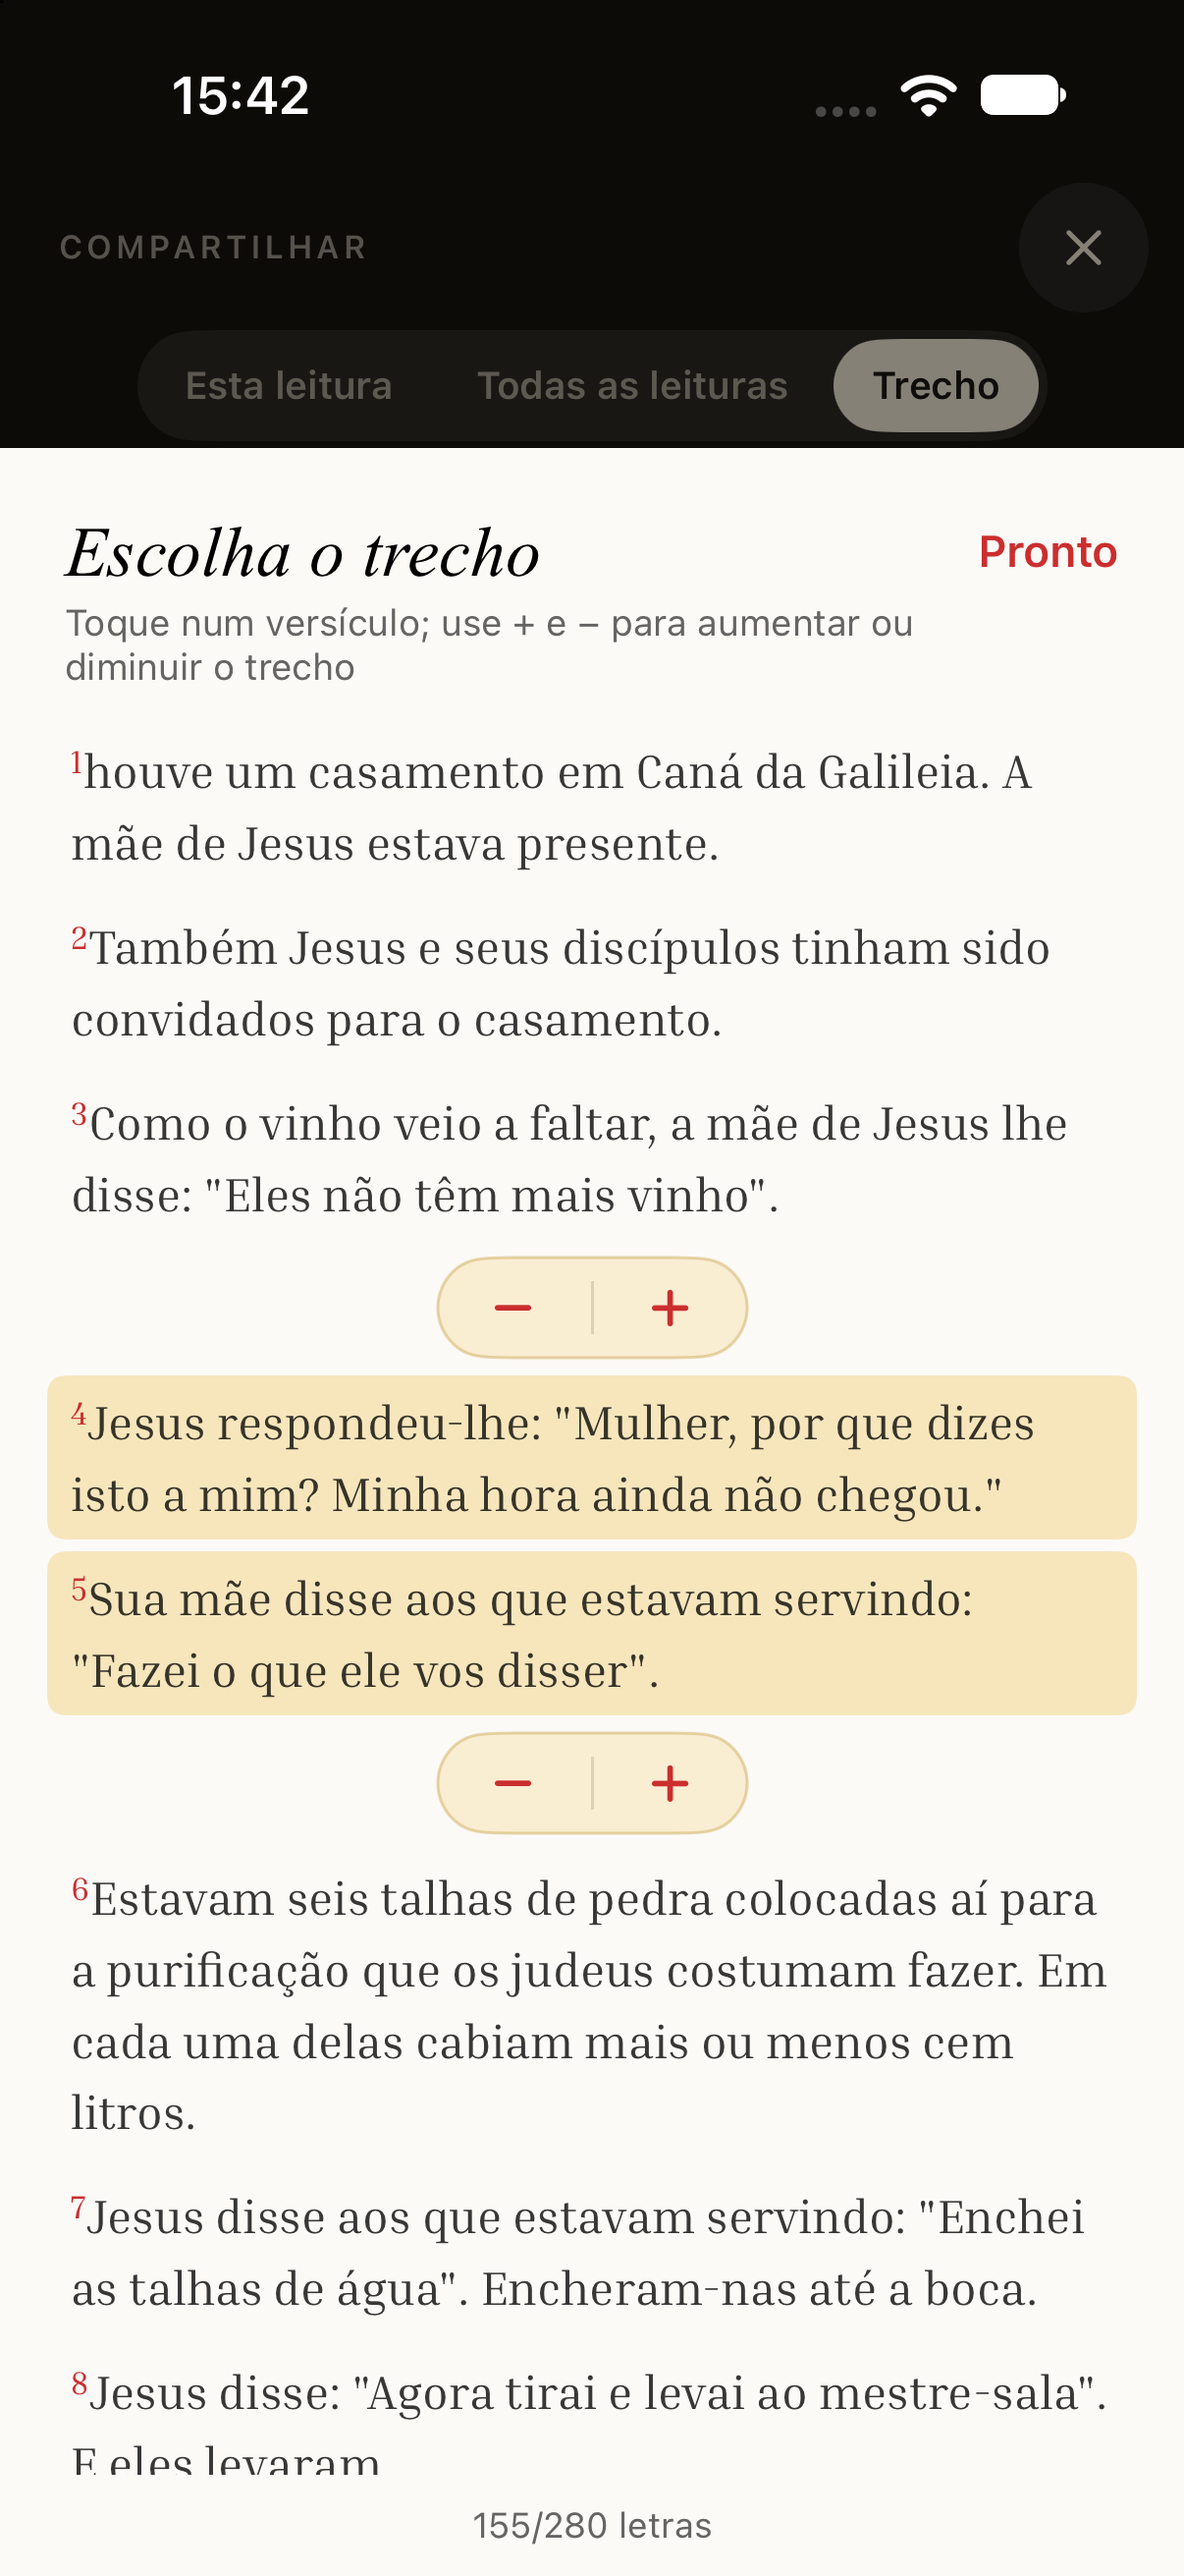
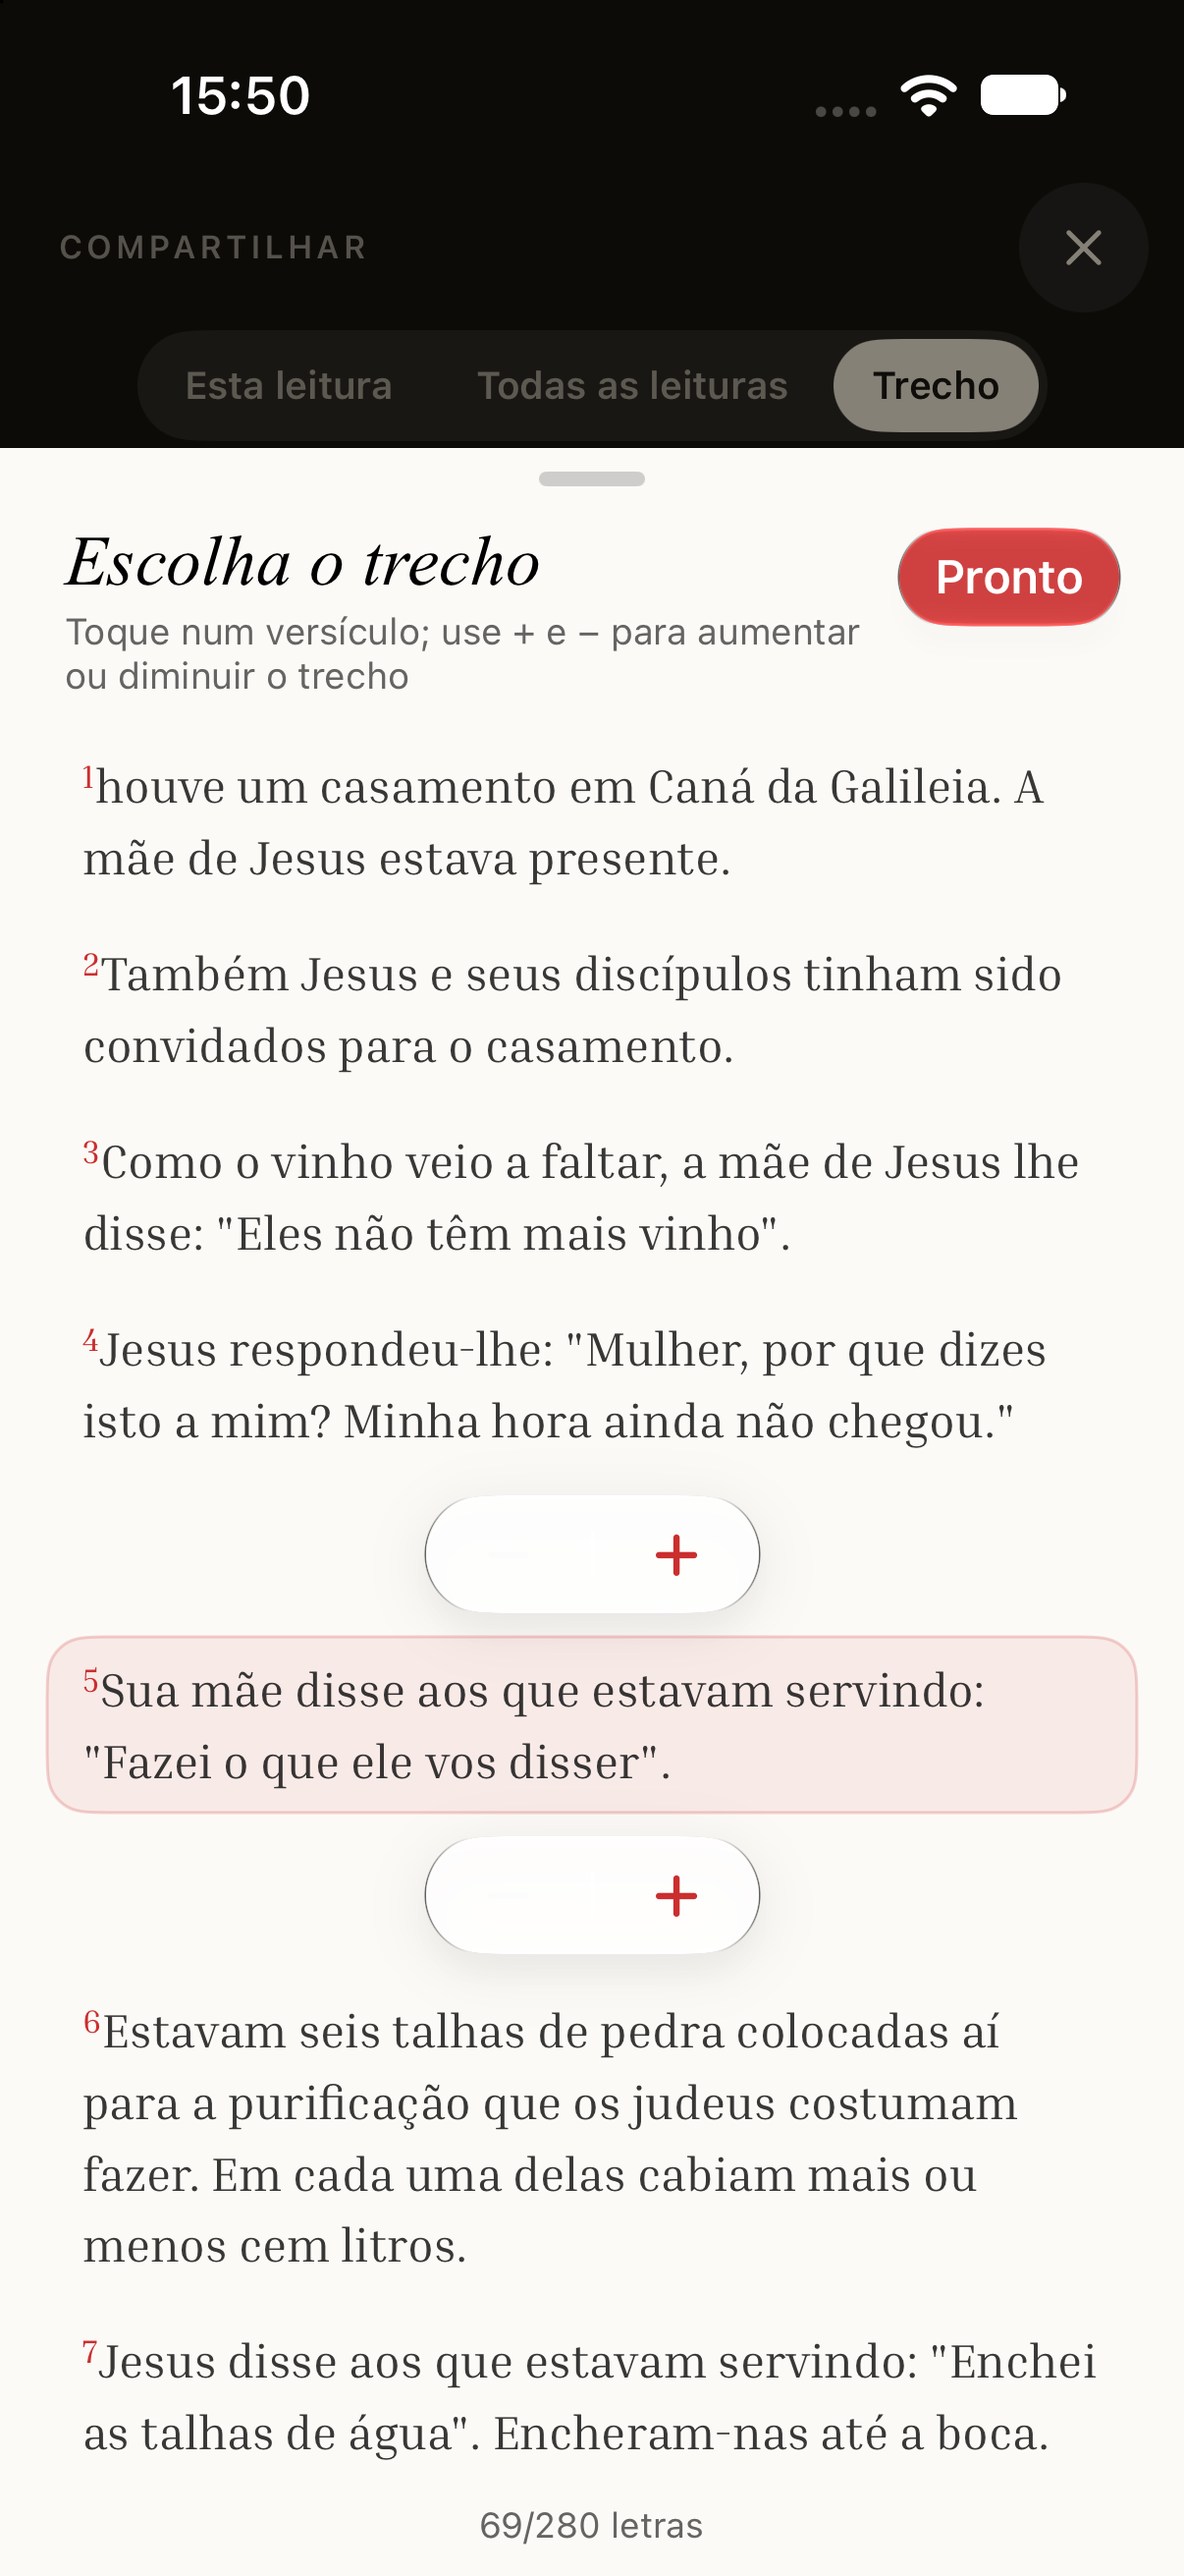
style(ios): seletor de trecho no estilo do iOS (− | + em vidro, destaque suave, Pronto em vidro)

diff --git a/ios/LiturgiaDiaria/Compartilhar.swift b/ios/LiturgiaDiaria/Compartilhar.swift
@@ -99,7 +99,7 @@ struct CompartilharView: View {
                                    pronto: { withAnimation(.easeOut(duration: 0.25)) { escolhendo = false } })
                         .frame(maxHeight: .infinity, alignment: .bottom)
                         .padding(.top, 90)
-                        .clipShape(UnevenRoundedRectangle(topLeadingRadius: 22, topTrailingRadius: 22))
+                        .clipShape(UnevenRoundedRectangle(topLeadingRadius: 34, topTrailingRadius: 34, style: .continuous))
                         .ignoresSafeArea(edges: .bottom)
                         .transition(.move(edge: .bottom))
                 }
@@ -432,6 +432,8 @@ struct EscolherVersos: View {
 
     var body: some View {
         VStack(alignment: .leading, spacing: 0) {
+            Capsule().fill(Color.black.opacity(0.18)).frame(width: 36, height: 5)
+                .frame(maxWidth: .infinity).padding(.top, 8)
             HStack(alignment: .top) {
                 VStack(alignment: .leading, spacing: 3) {
                     Text("Escolha o trecho").font(Estilo.titulo(24)).foregroundStyle(Estilo.tinta)
@@ -439,10 +441,9 @@ struct EscolherVersos: View {
                         .font(Estilo.sans(12.5)).foregroundStyle(Estilo.suave)
                 }
                 Spacer()
-                Button("Pronto") { pronto() }.font(Estilo.sans(15, .semibold)).foregroundStyle(Estilo.vermelho)
-                    .padding(.top, 4)
+                botaoPronto.padding(.top, 2)
             }
-            .padding(.horizontal, 22).padding(.top, 22).padding(.bottom, 12)
+            .padding(.horizontal, 22).padding(.top, 12).padding(.bottom, 12)
             ScrollViewReader { rolar in
                 ScrollView {
                     VStack(alignment: .leading, spacing: 4) {
@@ -479,46 +480,68 @@ struct EscolherVersos: View {
                 .lineSpacing(5)
                 .frame(maxWidth: .infinity, alignment: .leading)
                 .contentShape(Rectangle())
-                .onTapGesture { aplicar(u.id, u.id); UISelectionFeedbackGenerator().selectionChanged() }
+                .onTapGesture { withAnimation(.snappy(duration: 0.28)) { aplicar(u.id, u.id) }; UISelectionFeedbackGenerator().selectionChanged() }
         }
-        .padding(.horizontal, 8).padding(.vertical, 6)
-        .background(RoundedRectangle(cornerRadius: 6).fill(marcado ? Color(hex: 0xf3d58c, alpha: 0.55) : .clear))
+        .padding(.horizontal, 12).padding(.vertical, 8)
+        .background(RoundedRectangle(cornerRadius: 14, style: .continuous).fill(marcado ? Estilo.vermelho.opacity(0.08) : .clear))
+        .overlay(RoundedRectangle(cornerRadius: 14, style: .continuous).stroke(marcado ? Estilo.vermelho.opacity(0.22) : .clear, lineWidth: 1))
         .animation(.easeOut(duration: 0.15), value: marcado)
         .background(GeometryReader { g in Color.clear.preference(key: QuadrosVersos.self, value: [u.id: g.frame(in: .named("versos"))]) })
         .accessibilityAddTraits(.isButton)
         .accessibilityAddTraits(marcado ? .isSelected : [])
     }
 
+    @ViewBuilder private var botaoPronto: some View {
+        if #available(iOS 26, *) {
+            Button("Pronto") { pronto() }.font(.system(size: 16, weight: .semibold))
+                .buttonStyle(.glassProminent).tint(Estilo.vermelho)
+        } else {
+            Button("Pronto") { pronto() }.font(.system(size: 16, weight: .semibold))
+                .buttonStyle(.borderedProminent).buttonBorderShape(.capsule).tint(Estilo.vermelho)
+        }
+    }
+
     private var podeAjustar: Bool { sel.map { versos.unidades[$0.0].n != "R." } ?? false }
 
-    /// Um par "− / +" em cada ponta do trecho: em cima mexe no começo, embaixo mexe no fim.
+    /// Um par "− / +" em cada ponta do trecho, em vidro como os controles do iOS: em cima mexe no
+    /// começo, embaixo mexe no fim.
     private func pontas(acima: Bool) -> some View {
         let (a, b) = (min(sel!.0, sel!.1), max(sel!.0, sel!.1))
         let primeiro = versos.unidades.first?.n == "R." ? 1 : 0
         let podeMais = acima ? a > primeiro : b < versos.unidades.count - 1
         let podeMenos = a != b
-        return HStack(spacing: 0) {
+        let par = HStack(spacing: 0) {
             botaoPonta("minus", ativo: podeMenos, rotulo: acima ? "Tirar o primeiro versículo" : "Tirar o último versículo") {
                 acima ? ajustar(a + 1, b) : ajustar(a, b - 1)
             }
-            Rectangle().fill(Estilo.tinta.opacity(0.12)).frame(width: 1, height: 18)
+            Capsule().fill(.secondary.opacity(0.35)).frame(width: 1, height: 16)
             botaoPonta("plus", ativo: podeMais, rotulo: acima ? "Acrescentar o versículo anterior" : "Acrescentar o versículo seguinte") {
                 acima ? ajustar(a - 1, b) : ajustar(a, b + 1)
             }
         }
-        .background(Capsule().fill(Color(hex: 0xf3d58c, alpha: 0.35)))
-        .overlay(Capsule().stroke(Color(hex: 0xc9a54a, alpha: 0.45), lineWidth: 1))
+        return Group {
+            if #available(iOS 26, *) {
+                par.glassEffect(.regular.tint(Color.white.opacity(0.75)).interactive(), in: .capsule)
+                    .shadow(color: .black.opacity(0.08), radius: 10, y: 4)
+            } else {
+                par.background(.regularMaterial, in: Capsule())
+                    .shadow(color: .black.opacity(0.10), radius: 8, y: 3)
+            }
+        }
         .frame(maxWidth: .infinity)
-        .padding(.vertical, 2)
+        .padding(.vertical, 4)
+        .transition(.scale(scale: 0.85).combined(with: .opacity))
     }
 
     private func botaoPonta(_ icone: String, ativo: Bool, rotulo: String, acao: @escaping () -> Void) -> some View {
-        Button(action: acao) {
-            Image(systemName: icone).font(.system(size: 15, weight: .semibold))
-                .foregroundStyle(ativo ? Estilo.vermelho : Estilo.tinta.opacity(0.2))
-                .frame(width: 52, height: 34).contentShape(Rectangle())
+        Button { withAnimation(.snappy(duration: 0.28)) { acao() } } label: {
+            Image(systemName: icone).font(.system(size: 17, weight: .semibold))
+                .foregroundStyle(ativo ? Estilo.vermelho : Color.secondary.opacity(0.35))
+                .frame(width: 56, height: 40).contentShape(Rectangle())
         }
+        .buttonStyle(.plain)
         .disabled(!ativo)
+        .sensoryFeedback(.selection, trigger: sel.map { "\($0.0)-\($0.1)" } ?? "")
         .accessibilityLabel(rotulo)
     }
 
@@ -533,7 +556,6 @@ struct EscolherVersos: View {
     private func ajustar(_ a: Int, _ b: Int) {
         sel = (a, b)
         escolher(a, b, true)
-        UISelectionFeedbackGenerator().selectionChanged()
     }
 }
 
